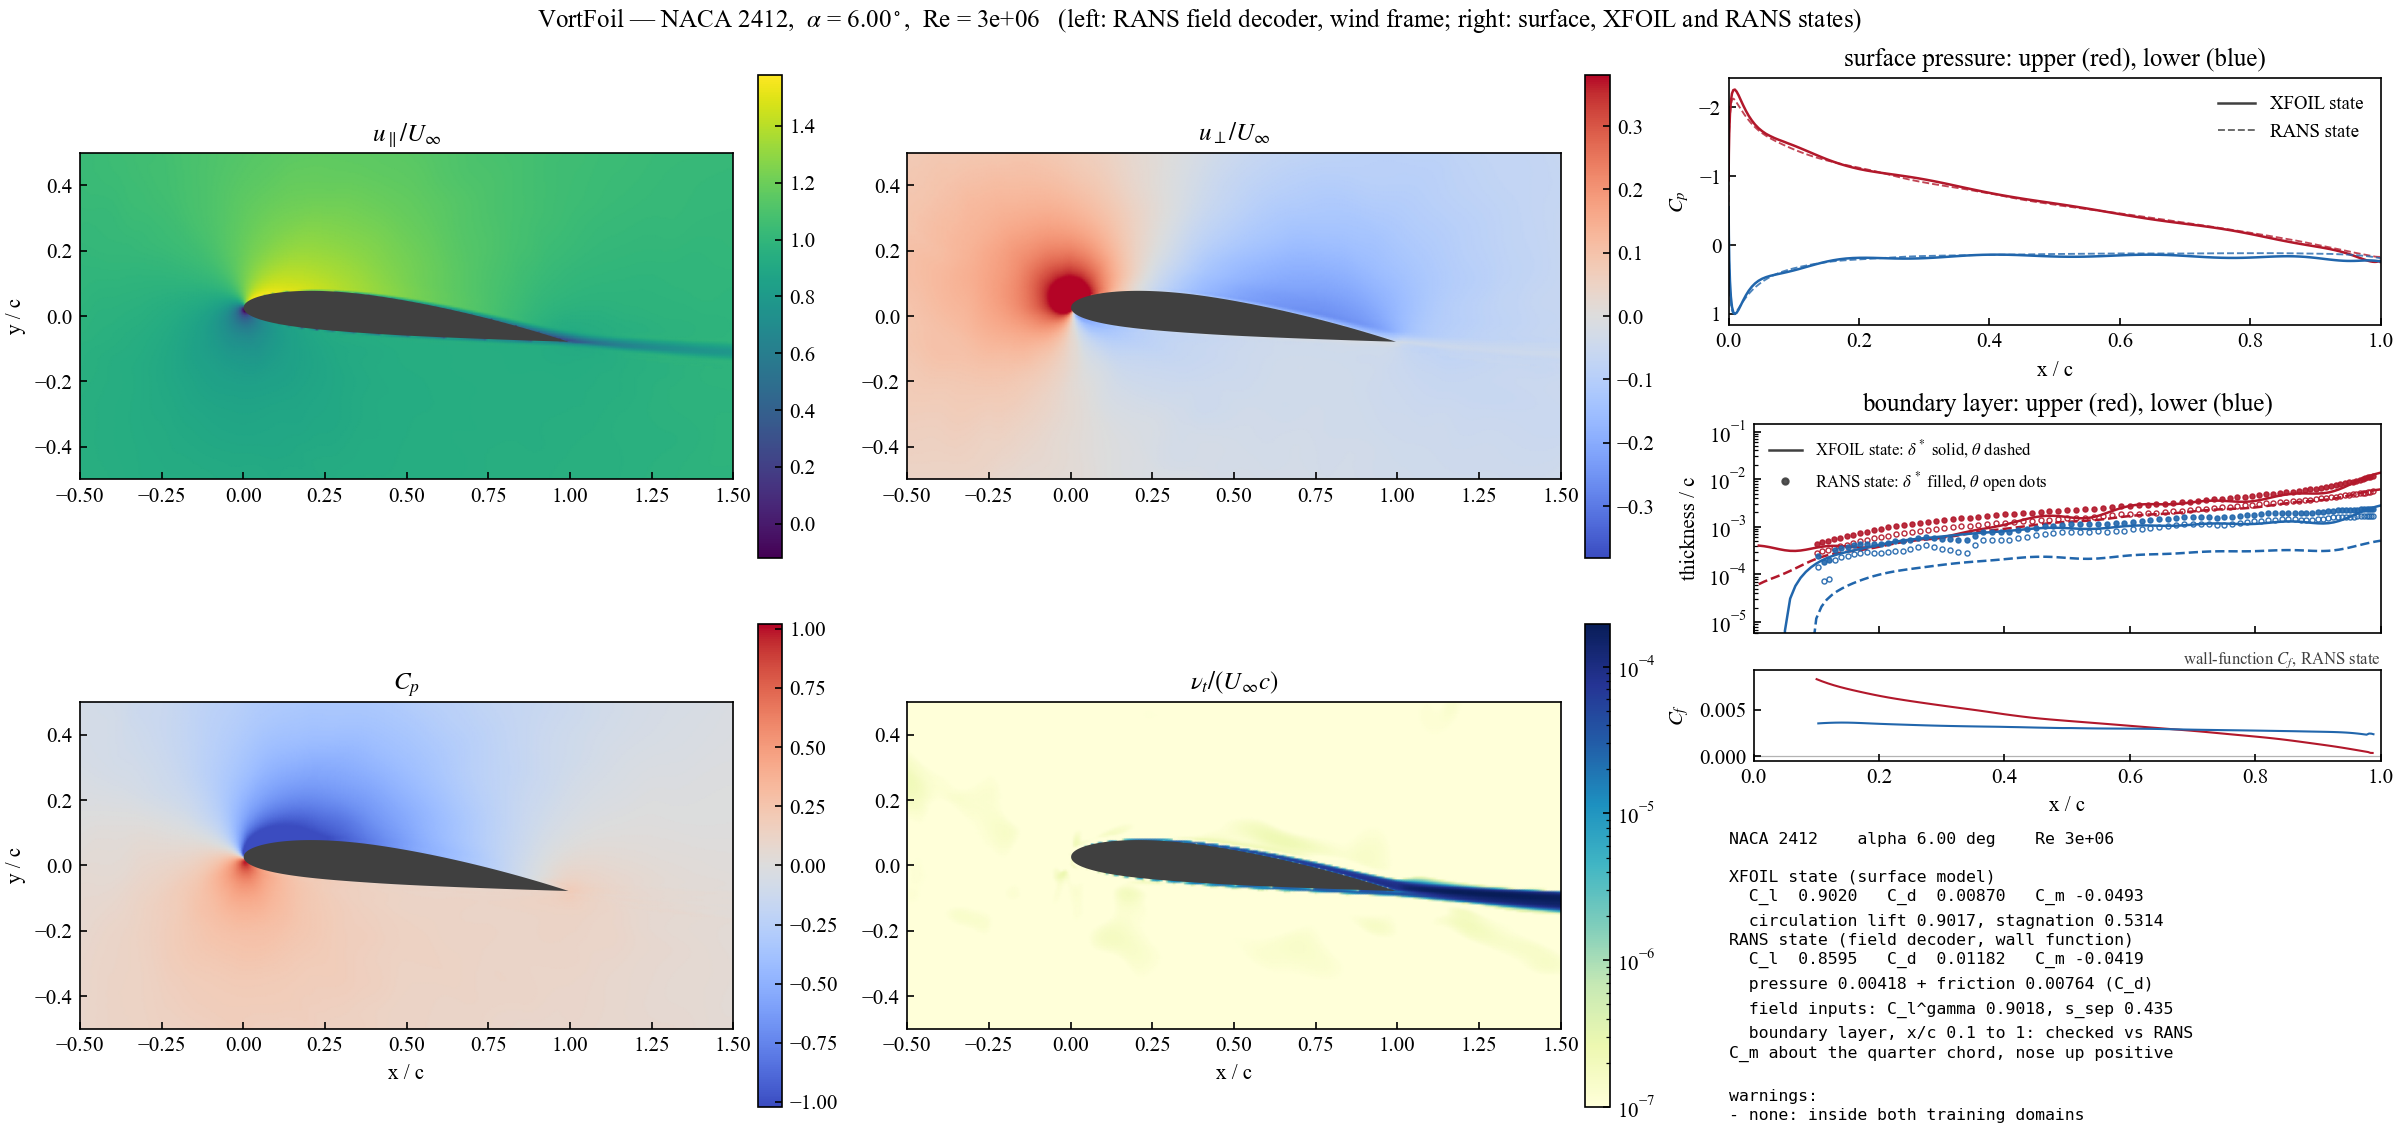
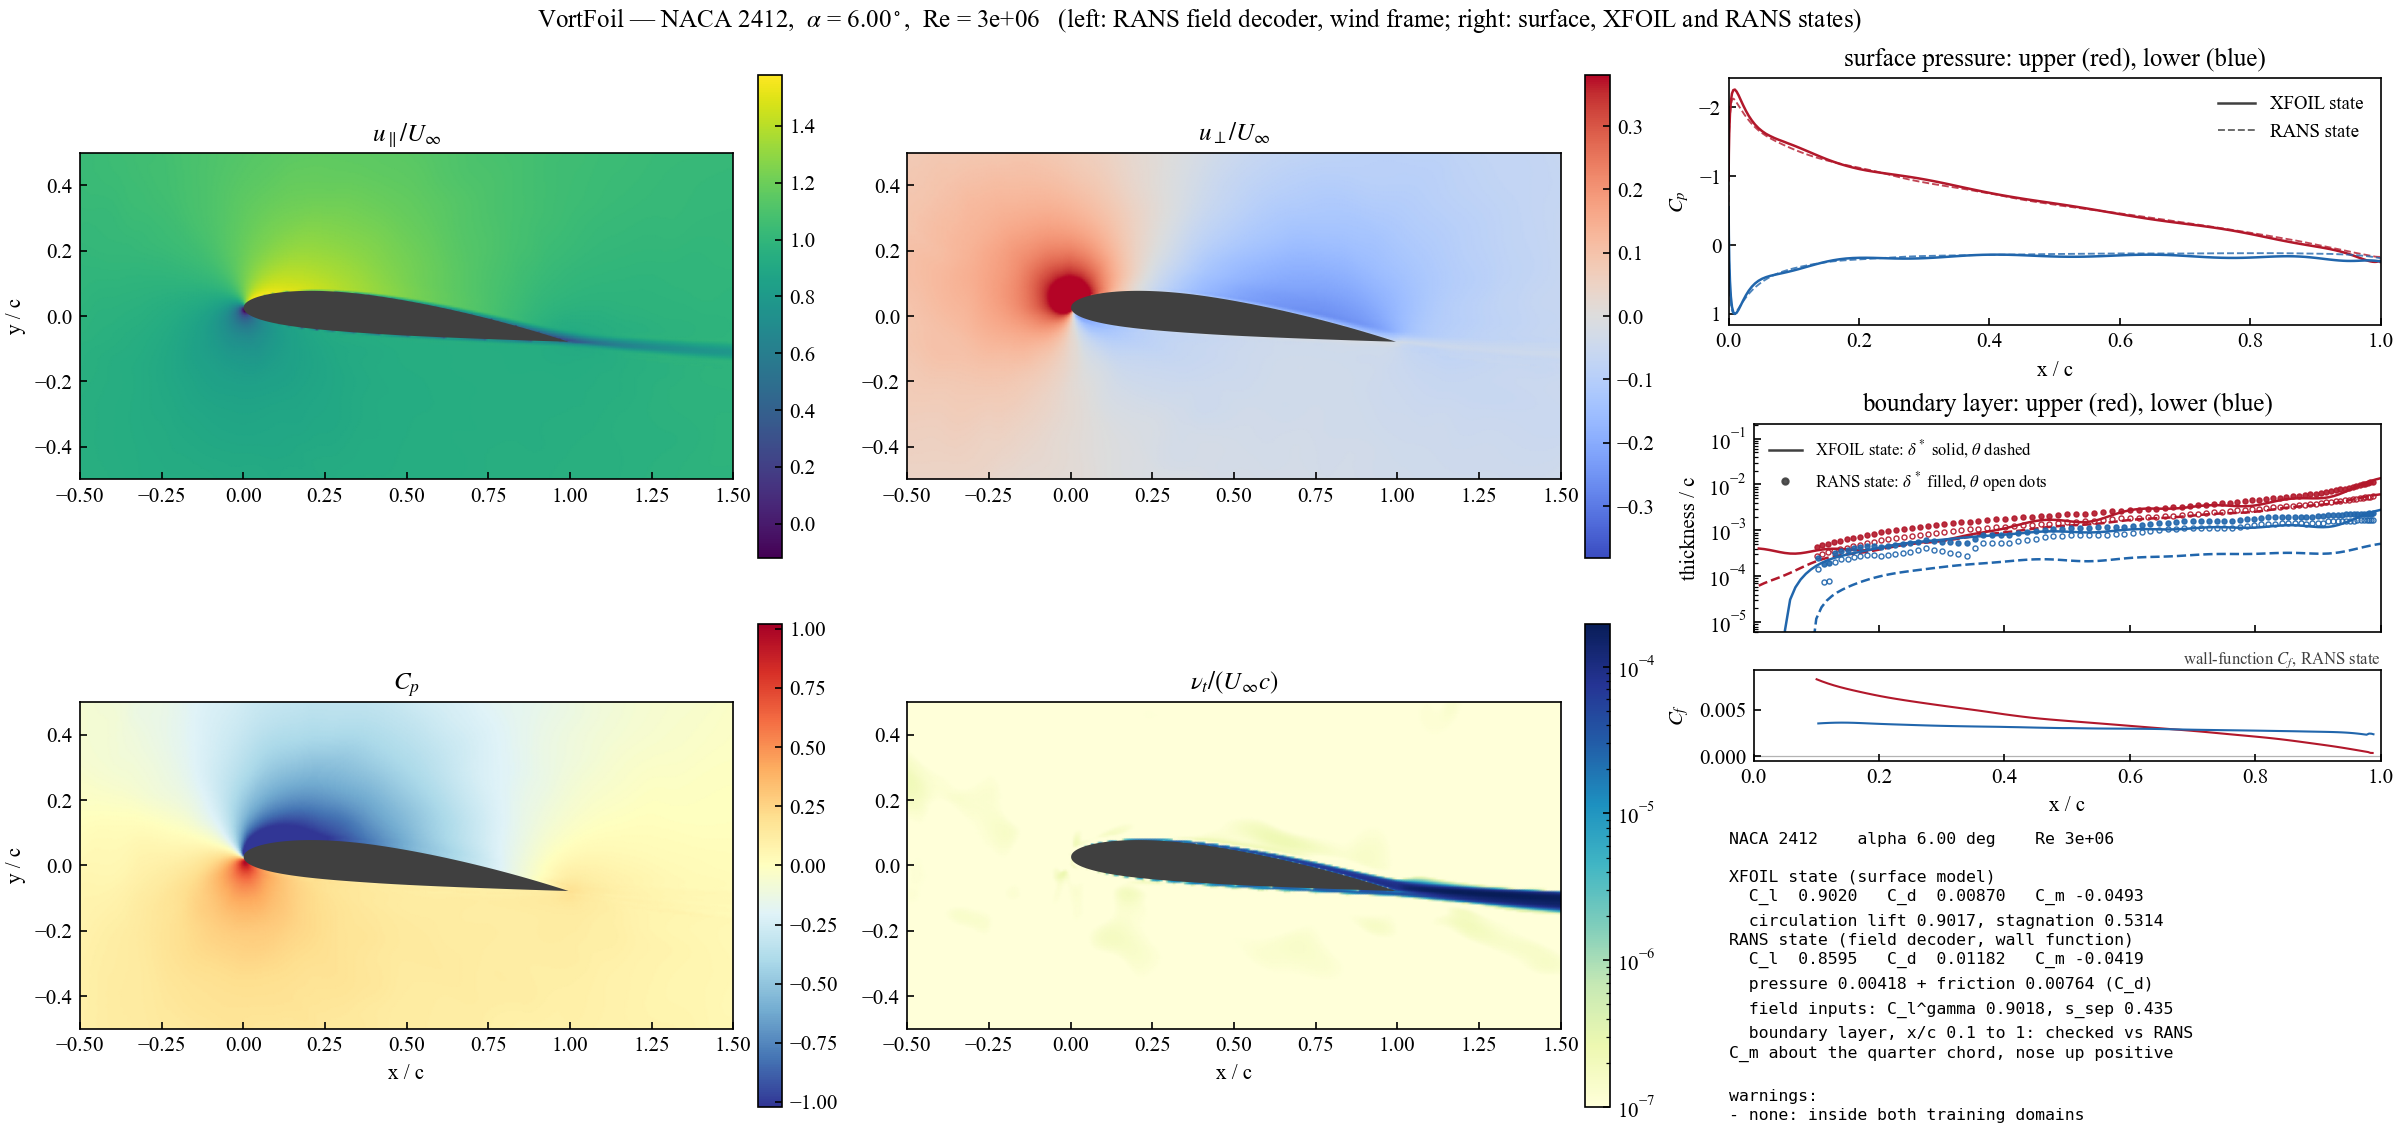
Field view: C_p in RdYlBu_r (every field channel its own colour map)
u_par viridis, u_perp coolwarm, C_p RdYlBu_r (was coolwarm, shared with u_perp), nu_t YlGnBu (log); the manuscript's
field figure uses RdYlBu_r for pressure as well. README viewer example regenerated (NACA 2412, 6 deg, Re 3e6, 150 dpi).

Changed region(s): [[0.0312, 0.5526, 0.3438, 0.9825], [0.7188, 0.3991, 1.0, 0.5219]]

diff --git a/code/field/predict_field.py b/code/field/predict_field.py
@@ -686,7 +686,7 @@ def draw_fields(fig, axes, out, meta):
     wind = meta["frame"] == "wind"
     panels = [("u_over_U", r"$u_\parallel/U_\infty$" if wind else r"$u/U_\infty$", "viridis", None),
               ("v_over_U", r"$u_\perp/U_\infty$" if wind else r"$v/U_\infty$", "coolwarm", "sym"),
-              ("cp", r"$C_p$", "coolwarm", "sym"), ("nut_over_Uc", r"$\nu_t/(U_\infty c)$", "YlGnBu", "log")]
+              ("cp", r"$C_p$", "RdYlBu_r", "sym"), ("nut_over_Uc", r"$\nu_t/(U_\infty c)$", "YlGnBu", "log")]   # every channel its own map
     for ax, (k, lab, cmap, kind) in zip(axes, panels):
         cm = plt.get_cmap(cmap)
         kw = dict(cmap=cm, shading="gouraud", rasterized=True)          # values interpolated between the grid points
